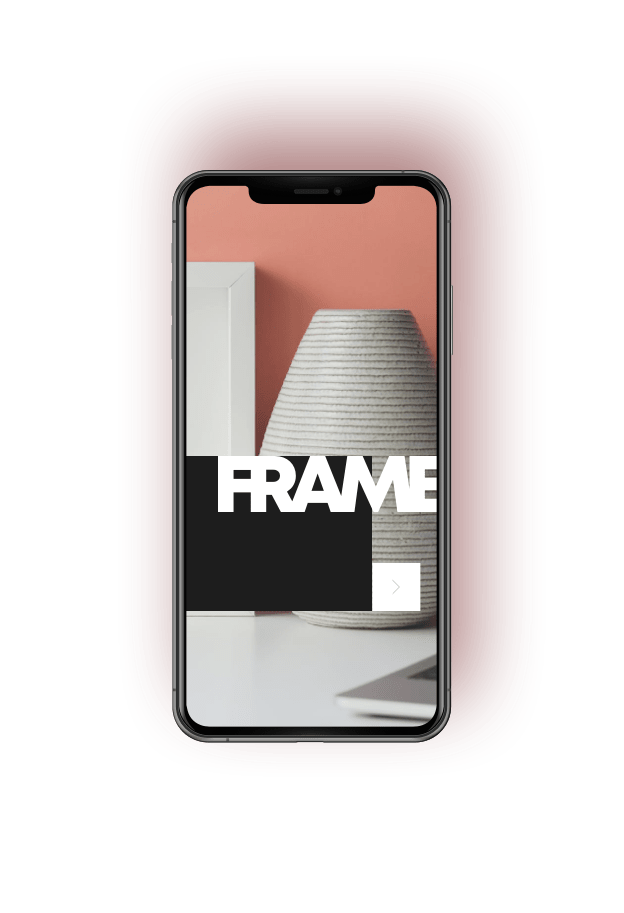
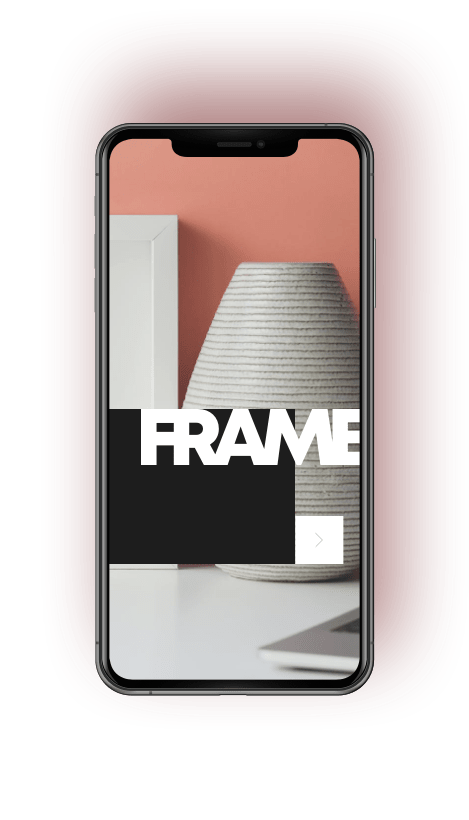
Fix main-hero image alignments

diff --git a/sass/components/hero.scss b/sass/components/hero.scss
@@ -1,88 +1,5 @@
 @use '../abstracts' as *;
 
-.main-hero {
-    height: rem(843px);
-    padding: 0 rem(10px);
-    overflow: hidden;
-    background-color: $peach;
-    position: relative;
-    z-index: 1;
-    background-image: url(../assets/home/desktop/bg-pattern-hero-home.svg);
-    background-repeat: no-repeat;
-    background-position: top rem(104px) right rem(-300px);
-    @include mq(medium) {
-        border-radius:  rem(15px);
-        background-position: top rem(120px) right rem(-120px);
-    }
-    @include mq(large) {
-        display: flex;
-        height: rem(640px);
-        padding: 0;
-        background-position: top right;
-    }
-    &__content {
-        margin: 0 auto;
-        max-width: rem(327px);
-        position: relative;
-        z-index: 3;
-        @extend %flex;
-        @extend %flex-d-c;
-        @extend %flex-ai-c;
-        @include mq(medium) {
-            max-width: rem(575px);
-        }
-        @include mq(large) {
-            max-width: rem(540px);
-            height: rem(350px);
-            margin: rem(145px) 0 0 rem(95px);
-            align-items: flex-start;
-            justify-content: space-between;
-        }
-    }
-    &__header {
-        padding-top:    rem(80px);
-        padding-bottom: rem(28px);
-        @include mq(large) {
-            padding: 0;
-            text-align: left;
-        }
-    }
-    &__text{
-        color: $white;
-        font-weight: 400;
-        font-size: rem(15px);
-        line-height: rem(25px);
-        margin-bottom: rem(24px);
-        @include mq(medium) {
-            max-width: rem(445px);
-        }
-        @include mq(large) {
-            text-align: left;
-            margin-bottom: 0;
-        }
-    }
-    &__image {
-        margin: auto;
-        padding-top: rem(670px);
-        position: absolute;
-        z-index: 2;
-        top:    -9999px;
-        left:   -9999px;
-        right:  -9999px;
-        bottom: -9999px;
-        @include mq(medium) {
-            padding-top: rem(655px);
-            
-        }
-        @include mq(large) {
-            margin-top:   rem(-40px);
-            margin-right: rem(-75px);
-            padding-top: 0;
-            position: static;
-        }
-    }
-}
-
 .hero-wrapper {
     margin: 0 auto;
     @include mq(medium) {

diff --git a/sass/components/main-hero.scss b/sass/components/main-hero.scss
@@ -1,0 +1,84 @@
+@use '../abstracts' as *;
+
+.main-hero {
+    height: rem(843px);
+    padding: 0 rem(24px);
+    overflow: hidden;
+    background-color: $peach;
+    position: relative;
+    background-image: url(../assets/home/desktop/bg-pattern-hero-home.svg);
+    background-repeat: no-repeat;
+    background-position: top rem(104px) right rem(-300px);
+    @include mq(medium) {
+        border-radius:  rem(15px);
+        background-position: top rem(120px) right rem(-120px);
+    }
+    @include mq(large) {
+        display: flex;
+        height: rem(640px);
+        padding: 0;
+        background-position: top right;
+    }
+    &__content {
+        margin: 0 auto;
+        max-width: rem(330px);
+        position: relative;
+        z-index: 3;
+        @extend %flex;
+        @extend %flex-d-c;
+        @extend %flex-ai-c;
+        @include mq(medium) {
+            max-width: rem(575px);
+        }
+        @include mq(large) {
+            height: rem(350px);
+            margin: rem(145px) 0 0 rem(95px);
+            align-items: flex-start;
+            justify-content: space-between;
+        }
+    }
+    &__header {
+        padding-top:    rem(80px);
+        padding-bottom: rem(24px);
+        @include mq(medium) {
+            padding-top: rem(60px);
+        }
+        @include mq(large) {
+            padding: 0;
+            text-align: left;
+        }
+    }
+    &__text{
+        color: $white;
+        font-weight: 400;
+        font-size: rem(15px);
+        line-height: rem(25px);
+        margin-bottom: rem(24px);
+        @include mq(medium) {
+            max-width: rem(445px);
+        }
+        @include mq(large) {
+            text-align: left;
+            margin-bottom: 0;
+        }
+    }
+    &__image {
+        padding-top: rem(674px);
+        position: absolute;
+        top:  50%;
+        left: 50%;
+        transform: translate(-50%, -50%);
+        @include mq(medium) {
+            padding-top: rem(638px);
+        }
+        @include mq(large) {
+            width:  rem(469px);
+            height: rem(820px);
+            margin-top: 1rem;
+            margin-left: auto;
+            padding-top: 0;
+            position: static;
+            transform: initial;
+        }
+    }
+}

diff --git a/css/styles.css b/css/styles.css
@@ -545,13 +545,26 @@ span {
   }
 }
 
+.hero-wrapper {
+  margin: 0 auto;
+}
+@media (min-width: 768px) {
+  .hero-wrapper {
+    width: calc(100% - 5rem);
+  }
+}
+@media (min-width: 1360px) {
+  .hero-wrapper {
+    width: calc(100% - 20.625rem);
+  }
+}
+
 .main-hero {
   height: 52.6875rem;
-  padding: 0 0.625rem;
+  padding: 0 1.5rem;
   overflow: hidden;
   background-color: hsl(11deg, 73%, 66%);
   position: relative;
-  z-index: 1;
   background-image: url(../assets/home/desktop/bg-pattern-hero-home.svg);
   background-repeat: no-repeat;
   background-position: top 6.5rem right -18.75rem;
@@ -572,7 +585,7 @@ span {
 }
 .main-hero__content {
   margin: 0 auto;
-  max-width: 20.4375rem;
+  max-width: 20.625rem;
   position: relative;
   z-index: 3;
 }
@@ -583,7 +596,6 @@ span {
 }
 @media (min-width: 1360px) {
   .main-hero__content {
-    max-width: 33.75rem;
     height: 21.875rem;
     margin: 9.0625rem 0 0 5.9375rem;
     align-items: flex-start;
@@ -592,7 +604,12 @@ span {
 }
 .main-hero__header {
   padding-top: 5rem;
-  padding-bottom: 1.75rem;
+  padding-bottom: 1.5rem;
+}
+@media (min-width: 768px) {
+  .main-hero__header {
+    padding-top: 3.75rem;
+  }
 }
 @media (min-width: 1360px) {
   .main-hero__header {
@@ -619,40 +636,26 @@ span {
   }
 }
 .main-hero__image {
-  margin: auto;
-  padding-top: 41.875rem;
+  padding-top: 42.125rem;
   position: absolute;
-  z-index: 2;
-  top: -9999px;
-  left: -9999px;
-  right: -9999px;
-  bottom: -9999px;
+  top: 50%;
+  left: 50%;
+  transform: translate(-50%, -50%);
 }
 @media (min-width: 768px) {
   .main-hero__image {
-    padding-top: 40.9375rem;
+    padding-top: 39.875rem;
   }
 }
 @media (min-width: 1360px) {
   .main-hero__image {
-    margin-top: -2.5rem;
-    margin-right: -4.6875rem;
+    width: 29.3125rem;
+    height: 51.25rem;
+    margin-top: 1rem;
+    margin-left: auto;
     padding-top: 0;
     position: static;
-  }
-}
-
-.hero-wrapper {
-  margin: 0 auto;
-}
-@media (min-width: 768px) {
-  .hero-wrapper {
-    width: calc(100% - 5rem);
-  }
-}
-@media (min-width: 1360px) {
-  .hero-wrapper {
-    width: calc(100% - 20.625rem);
+    transform: initial;
   }
 }
 

diff --git a/index.html b/index.html
@@ -36,6 +36,7 @@
 				</div>
 				<img class="main-hero__image" src="assets/home/desktop/image-hero-phone.png" alt="Smart Phone">
 			</section>
+			<!-- DESIGN CARDS SECTION -->
 			<section class="cards wrapper">	
 				<div class="design-card design-card--web design-card--home">
 					<a class="design-card__link" href="#">

diff --git a/sass/components/index.scss b/sass/components/index.scss
@@ -1,6 +1,7 @@
 @forward 'logo';
 @forward 'cards';
 @forward 'hero.scss';
+@forward 'main-hero.scss';
 @forward 'buttons.scss';
 @forward 'lets-talk.scss';
 @forward 'content.scss';
